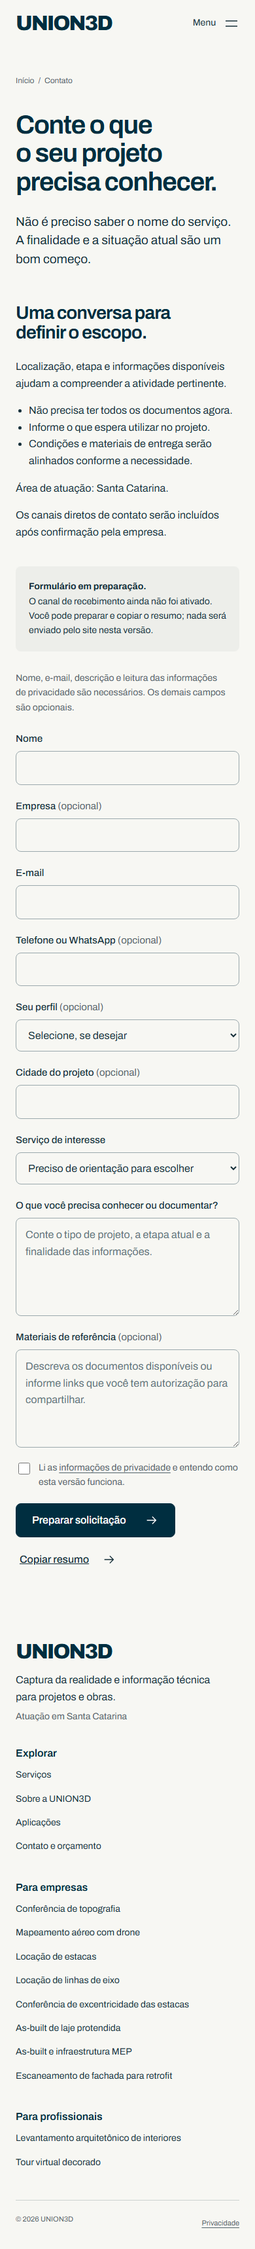
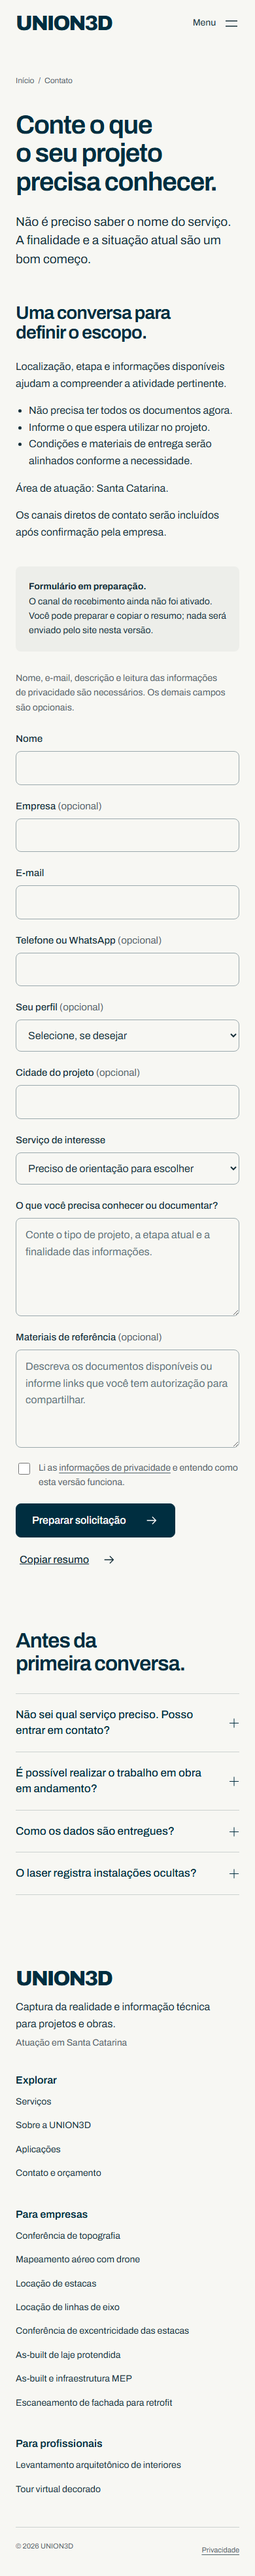
Completa os itens remanescentes da revisão
- FAQ geral na página de contato, como previsto em docs/arquitetura.md, sem repetir o preparo da solicitação.
- Teste permanente da comparação do hero por teclado e toque, e teste da FAQ do contato (14 no total).
- design.json registra a chegada por etapa, o recuo das âncoras, as mensagens do formulário e a FAQ no contato.
- Atualiza a documentação da revisão, as capturas e o pacote estático.

diff --git a/tests/site.spec.ts b/tests/site.spec.ts
@@ -63,3 +63,15 @@ test('link de etapa do serviço abre o corte na etapa correspondente e âncoras 
  await page.locator('#quando a.text-link').click();await expect(page).toHaveURL(/\?etapa=3#janelas$/);await expect(page.locator('#stage-detail-2')).toBeVisible();await expect(page.getByRole('button',{name:/03 Instalações/})).toHaveAttribute('aria-pressed','true');
  const bottom=await page.locator('#stage-detail-2').evaluate(e=>e.getBoundingClientRect().bottom);expect(bottom).toBeLessThanOrEqual(768);
 });
+test('comparação responde ao teclado e ao toque no celular sem rolar a página',async({browser})=>{
+ const context=await browser.newContext({viewport:{width:390,height:844},hasTouch:true,isMobile:true,reducedMotion:'reduce'});const page=await context.newPage();await page.goto('http://127.0.0.1:4321/');const slider=page.getByRole('slider');const hero=page.locator('[data-hero]');
+ await slider.focus();await page.keyboard.press('End');await expect(slider).toHaveValue('100');await expect(hero).toHaveCSS('--scan-edge','0%');await page.keyboard.press('Home');await expect(slider).toHaveValue('0');await page.keyboard.press('ArrowRight');await expect(slider).toHaveValue('1');
+ const box=(await slider.boundingBox())!;expect(box.height).toBeGreaterThanOrEqual(24);const scroll=await page.evaluate(()=>scrollY);
+ await page.touchscreen.tap(box.x+box.width-4,box.y+box.height/2);await expect.poll(async()=>Number(await slider.inputValue())).toBeGreaterThan(80);
+ await page.touchscreen.tap(box.x+4,box.y+box.height/2);await expect.poll(async()=>Number(await slider.inputValue())).toBeLessThan(20);expect(await page.evaluate(()=>scrollY)).toBe(scroll);
+ await context.close();
+});
+test('contato traz as dúvidas gerais sem repetir o preparo da solicitação',async({page})=>{
+ await page.goto('/contato/');const faq=page.locator('.faq-list details');await expect(faq).toHaveCount(4);await expect(page.locator('.faq-list')).not.toContainText('O que ajuda a preparar');
+ await faq.first().locator('summary').focus();await page.keyboard.press('Enter');await expect(faq.first().locator('p')).toBeVisible();
+});

diff --git a/docs/revisao-2026-11-01.md b/docs/revisao-2026-11-01.md
@@ -1,6 +1,6 @@
 # Revisão e refinamento: 2026-11-01
 
-Ponto de partida: commit `c1c21d9` (branch `main`). O ZIP recebido era idêntico a esse commit; o histórico foi obtido do repositório e o trabalho está no branch `revisao/refinamento-comercial`. A pedido do usuário, o branch foi enviado ao GitHub e o pull request #1 foi aberto para a `main`, sem mesclagem. Nada foi publicado, implantado ou ativado em serviço externo.
+Ponto de partida: commit `c1c21d9` (branch `main`). O ZIP recebido era idêntico a esse commit; o histórico foi obtido do repositório e o trabalho está no branch `revisao/refinamento-comercial`. A pedido do usuário, o branch foi enviado ao GitHub e mesclado na `main` pelos pull requests #1 e #2. Nada foi publicado, implantado ou ativado em serviço externo.
 
 A direção visual escolhida pelo usuário (`.impeccable/mocks/referencia-escolhida-pelo-usuario.png`) foi preservada. Não houve nova rodada de estilo.
 
@@ -50,6 +50,12 @@ A direção visual escolhida pelo usuário (`.impeccable/mocks/referencia-escolh
 21. **“Relacionar à etapa da obra” abria sempre em Fundações**, mesmo vindo do as-built MEP ou do escaneamento de fachada. O link agora leva `?etapa=N` para linhas de eixo e laje protendida (Estrutura), as-built MEP (Instalações), interiores e fachada (Intervenção); a etapa aparece selecionada na chegada e, com a janela fixa, a rolagem para no início do trecho dela, de modo que continuar rolando segue a sequência. Serviços sem etapa própria continuam abrindo em Fundações.
 22. **Estilos sem uso** (`.service-category` e `.draft-form`, já sem uso no commit de partida) foram removidos.
 
+### Terceira passada: itens remanescentes
+
+23. **Contato sem a FAQ geral prevista na arquitetura.** `docs/arquitetura.md` prevê a FAQ geral na Home e no contato, mas o contato nunca a teve. A página agora traz as perguntas gerais, sem a de preparo da solicitação, que a coluna ao lado do formulário já responde.
+24. **Comparação do hero sem teste permanente.** A verificação por teclado e toque, antes feita por script avulso, virou teste.
+25. **`.impeccable/design.json` sem os comportamentos da segunda passada.** Registra agora a chegada por `?etapa=N`, o recuo das âncoras, as mensagens do formulário e a FAQ no contato.
+
 ### Revertido durante a revisão
 
 Mover o rótulo “Para empresas / Para profissionais” para cima do título dos públicos foi testado e desfeito: a referência de acabamento da Impeccable proíbe rótulos acima de títulos. A ordem original foi mantida.
@@ -58,12 +64,14 @@ Mover o rótulo “Para empresas / Para profissionais” para cima do título do
 
 - `npm run check`: 29 arquivos, 0 erros, 0 avisos, 0 dicas.
 - `npm run build`: 21 páginas.
-- `npm test`: 12 de 12 testes aprovados. Os sete originais foram mantidos. Cinco novos:
+- `npm test`: 14 de 14 testes aprovados. Os sete originais foram mantidos. Sete novos:
   - o menu de serviços fecha quando o foco sai pelo teclado;
   - a rolagem percorre as quatro etapas, cada uma por pelo menos 20% da altura da janela, com o detalhe visível (1536×1024, 1366×768, 1280×720);
   - nenhuma das 21 páginas produz rolagem horizontal em 360 px;
   - o formulário mostra as mensagens em português e não copia resumo vazio;
-  - o link de etapa do as-built MEP chega com Instalações selecionada e o detalhe visível, e as âncoras do índice param abaixo do cabeçalho.
+  - o link de etapa do as-built MEP chega com Instalações selecionada e o detalhe visível, e as âncoras do índice param abaixo do cabeçalho;
+  - a comparação do hero responde a End, Home e setas e, no celular com toque, a toques nas extremidades, sem rolar a página;
+  - o contato traz a FAQ geral sem repetir o preparo da solicitação, e as perguntas abrem pelo teclado.
   Os dois testes de comportamento foram executados contra o código original e falharam, confirmando que detectam os defeitos corrigidos.
 - Capturas de cinco páginas em 1536×1024, 1366×768, 768×1024, 390×844 e 360×740 em `.impeccable/review/` (28 arquivos), sem rolagem horizontal.
 - Inspeção visual do hero em 1024, 1180, 1280, 1366, 1440 e 1536 px após a animação, comparada à referência escolhida.
@@ -72,6 +80,7 @@ Mover o rótulo “Para empresas / Para profissionais” para cima do título do
 - Comparação do hero em 390×844 com toque emulado (Chromium com `hasTouch`): arrastar move o controle sem rolar a página, tocar posiciona o controle; pelo teclado, setas, Home e End funcionam; Enter nos botões de etapa mostra o detalhe.
 - Contexto de serviço: todos os links de contato do conteúdo de uma página de serviço levam `?servico=`, e o contato chega com o serviço selecionado.
 - Chegada pelo link de etapa verificada em 1536×1024, 1366×768, 1280×600 (seção em fluxo normal), movimento reduzido e 390×844.
+- FAQ da Home e de um serviço abre com Enter e fecha com Espaço em 390 e 1366 px; os rascunhos não recebem links das páginas comerciais e estão marcados com `noindex`.
 - Menu de serviços aberto em 1024 px e menu móvel aberto em 390 px: sem corte ou sobreposição; o menu móvel rola internamente.
 
 ## Limites desta revisão

diff --git a/docs/estado-da-implementacao.md b/docs/estado-da-implementacao.md
@@ -18,7 +18,7 @@ A revisão desta implementação usa a escolha direta no chat, capturas reais em
 
 - `npm run check`: 29 arquivos, sem erros, avisos ou dicas.
 - `npm run build`: 21 páginas geradas.
-- `npm test`: doze testes, todos aprovados (sete originais e cinco novos: foco no menu de serviços, permanência das etapas na rolagem, ausência de rolagem horizontal em 360 px em todas as páginas, mensagens do formulário e chegada à etapa correspondente com âncoras abaixo do cabeçalho).
+- `npm test`: catorze testes, todos aprovados (sete originais e sete novos: comparação por teclado e toque, FAQ no contato, foco no menu de serviços, permanência das etapas na rolagem, ausência de rolagem horizontal em 360 px em todas as páginas, mensagens do formulário e chegada à etapa correspondente com âncoras abaixo do cabeçalho).
 - Capturas em 1536×1024, 1366×768, 768×1024, 390×844 e 360×740, com cinco páginas representativas por tamanho; nenhuma rolagem horizontal encontrada.
 - Detector da Impeccable sem achados nas páginas renderizadas verificadas; 26 avisos consultivos de escala tipográfica no código-fonte. Isso não equivale a auditoria visual completa ou certificação de acessibilidade.
 - `artifacts/union3d-site-estatico.zip` regenerado com `npm run package` e conferido contra `dist/`.

diff --git a/.impeccable/review/technical-review.md b/.impeccable/review/technical-review.md
@@ -1,6 +1,6 @@
 # Verificação técnica direta
 
-> Atualização de 2026-11-01: nova revisão em Windows, com correções de leitura do hero, janelas de obra, foco, toque, formulário, navegação interna e conteúdo, e doze testes aprovados. Ver `docs/revisao-2026-11-01.md`. O texto abaixo registra a verificação anterior.
+> Atualização de 2026-11-01: nova revisão em Windows, com correções de leitura do hero, janelas de obra, foco, toque, formulário, navegação interna e conteúdo, e catorze testes aprovados. Ver `docs/revisao-2026-11-01.md`. O texto abaixo registra a verificação anterior.
 
 Avaliação substituta; o agente independente não concluiu por limite de uso. Não constitui certificação WCAG nem auditoria exaustiva.
 
